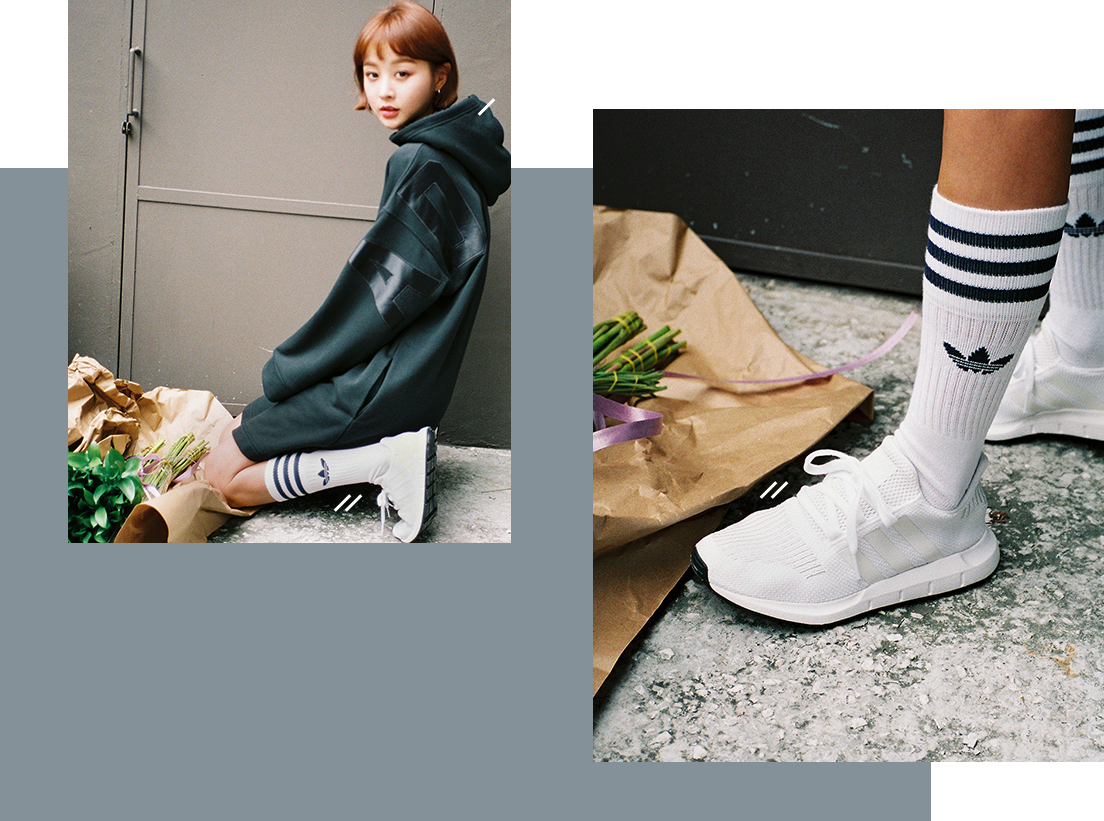
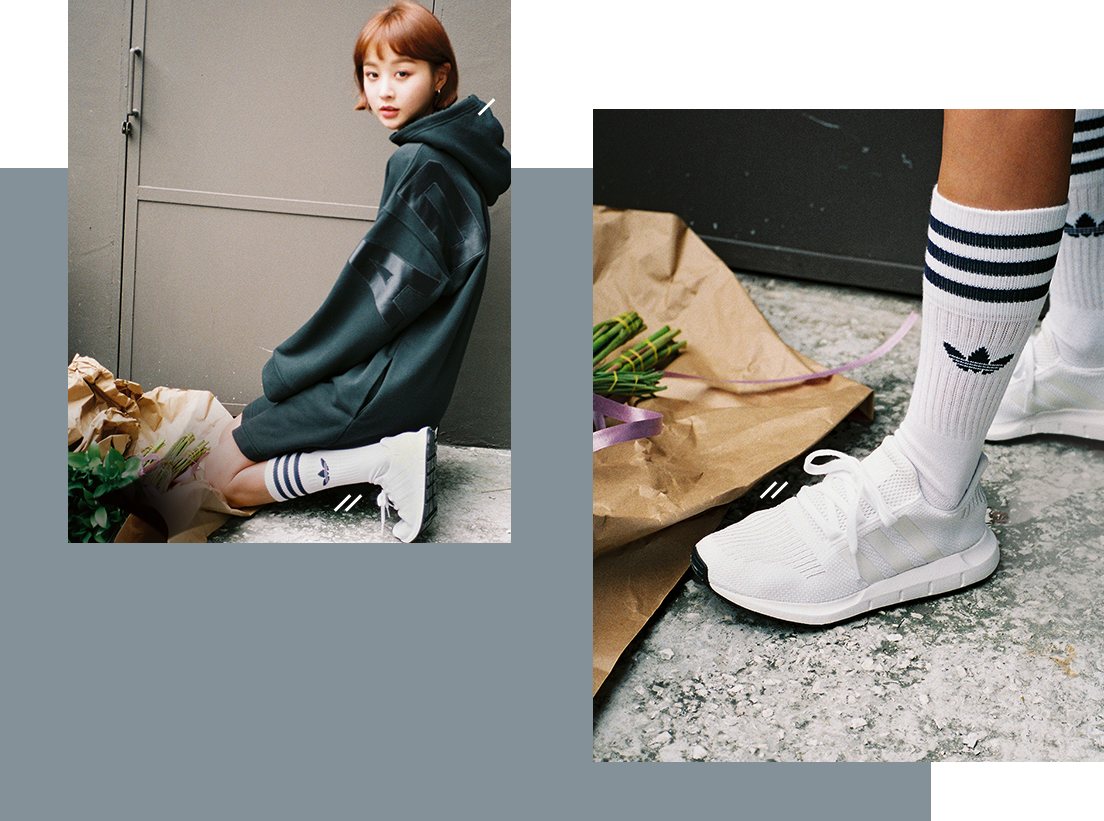
아디다스 임블리 수정

Changed region(s): [[0.0616, 0.4872, 0.2464, 0.6699], [0.8931, 0.5177, 1.0, 0.7613]]

diff --git a/app/html/adidas/event/originals_imvely/170918/build/index.html b/app/html/adidas/event/originals_imvely/170918/build/index.html
@@ -1056,7 +1056,7 @@
 
 
 		<div id="container_r">
-<style type="text/css">.pseudo-element{content:'';display:block}#wrap{overflow:hidden;min-width:1280px}#originals_imvely{overflow:hidden;min-width:1280px}#originals_imvely .main{position:relative;height:966px}#originals_imvely .main .bg{position:absolute;top:0;left:50%;margin-left:-960px}#originals_imvely .prd-slider-wrapper .link_wrap{position:absolute;bottom:130px;right:705px;opacity:0;filter:alpha(opacity=0);-ms-filter:alpha(opacity=0);transition:all 0.5s;-webkit-transition:all 0.5s;-moz-transition:all 0.5s;-o-transition:all 0.5s;-ms-transition:all 0.5s;transition-delay:1s;-webkit-transition-delay:1s;z-index:1}#originals_imvely .prd-slider-wrapper .link_wrap .link{float:left;margin-left:100px}#originals_imvely .prd-slider-wrapper .link_wrap .link p{padding:0 0 10px 0;color:#fff;font:16px/16px 'adihaus' !important}#originals_imvely .prd-slider-wrapper .link_wrap .link p.title{position:relative;font:24px/24px 'adihaus-medium' !important}#originals_imvely .prd-slider-wrapper .link_wrap .link p.title span{position:absolute;left:-27px;top:6px;display:inline-block;padding:0 8px 0 0;width:19px;height:18px;background:url("http://image.adidas.co.kr/images/adidas/event/originals_imvely/170918/bulit.png") no-repeat}#originals_imvely .prd-slider-wrapper .link_wrap .link p.title span.type2{left:-37px;width:30px;background:url("http://image.adidas.co.kr/images/adidas/event/originals_imvely/170918/bulits.png") no-repeat}#originals_imvely .prd-slider-wrapper .link_wrap .link p.title span.black{background:url("http://image.adidas.co.kr/images/adidas/event/originals_imvely/170918/bulit_black.png") no-repeat}#originals_imvely .prd-slider-wrapper .link_wrap .link .kor{position:relative;color:#fff;font:500 15px 'NotoSansKR'}#originals_imvely .prd-slider-wrapper .link_wrap .link .kor span{position:absolute;top:4px;right:-21px;width:14px;height:14px;background:url("/images/adidas/common/icon_btn_black_14x14.png")}#originals_imvely .prd-slider-wrapper .link_wrap .link .kor span.white{background:url("/images/adidas/common/icon_btn_white_14x14.png")}#originals_imvely .prd-slider-wrapper .item-wrapper{background:url("http://image.adidas.co.kr/images/adidas/event/originals_imvely/170918/bgimg1.jpg") no-repeat;background-position:50% 50%}#originals_imvely .prd-slider-wrapper .item-wrapper#sliderwrap1 .section_main .link_wrap{width:100%;top:0;left:0}#originals_imvely .prd-slider-wrapper .item-wrapper#sliderwrap1 .section_main .link_wrap .link{position:absolute}#originals_imvely .prd-slider-wrapper .item-wrapper#sliderwrap1 .section_main .link_wrap .link.item2{top:372px;left:344px}#originals_imvely .prd-slider-wrapper .item-wrapper#sliderwrap1 .section_main .link_wrap .link.item1{top:600px;right:356px}#originals_imvely .prd-slider-wrapper .item-wrapper#sliderwrap1 li.item5 .link_wrap{bottom:110px}#originals_imvely .prd-slider-wrapper .item-wrapper#sliderwrap2{background:url("http://image.adidas.co.kr/images/adidas/event/originals_imvely/170918/bgimg2.jpg") no-repeat}#originals_imvely .prd-slider-wrapper .item-wrapper#sliderwrap2 .link_wrap{right:780px}#originals_imvely .prd-slider-wrapper .item-wrapper#sliderwrap2 .section_main .link_wrap{width:100%;top:0;left:0}#originals_imvely .prd-slider-wrapper .item-wrapper#sliderwrap2 .section_main .link_wrap .link{position:absolute}#originals_imvely .prd-slider-wrapper .item-wrapper#sliderwrap2 .section_main .link_wrap .link.item2{top:562px;left:33px}#originals_imvely .prd-slider-wrapper .item-wrapper#sliderwrap2 .section_main .link_wrap .link.item1{top:271px;right:219px}#originals_imvely .prd-slider-wrapper .item-wrapper#sliderwrap2 li.item2 .link_wrap{bottom:100px}#originals_imvely .prd-slider-wrapper .item-wrapper#sliderwrap2 li.item3 .link_wrap{bottom:85px;right:650px}#originals_imvely .prd-slider-wrapper .item-wrapper#sliderwrap2 li.item4 .link_wrap{bottom:80px;right:780px}#originals_imvely .prd-slider-wrapper .item-wrapper#sliderwrap3{background:url("http://image.adidas.co.kr/images/adidas/event/originals_imvely/170918/bgimg3.jpg") no-repeat}#originals_imvely .prd-slider-wrapper .item-wrapper#sliderwrap3 .section_main .link_wrap{width:100%;top:0;left:0}#originals_imvely .prd-slider-wrapper .item-wrapper#sliderwrap3 .section_main .link_wrap .link{position:absolute}#originals_imvely .prd-slider-wrapper .item-wrapper#sliderwrap3 .section_main .link_wrap .link.item1{top:102px;right:115px}#originals_imvely .prd-slider-wrapper .item-wrapper#sliderwrap3 .section_main .link_wrap .link.item2{top:602px;left:-7px}#originals_imvely .prd-slider-wrapper .item-wrapper#sliderwrap3 li .link_wrap .link{float:none;padding-bottom:50px}#originals_imvely .prd-slider-wrapper .item-wrapper#sliderwrap3 li.item1 .link_wrap{bottom:88px;right:781px}#originals_imvely .prd-slider-wrapper .item-wrapper#sliderwrap3 li.item2 .link_wrap{bottom:130px;right:787px}#originals_imvely .prd-slider-wrapper .item-wrapper#sliderwrap3 li.item3 .link_wrap{bottom:130px;right:687px}#originals_imvely .prd-slider-wrapper .item-wrapper#sliderwrap3 li.item4 .link_wrap{bottom:120px;right:657px}#originals_imvely .prd-slider-wrapper .item-wrapper#sliderwrap3 li.item4 .link_wrap .link{float:right;margin-left:80px}#originals_imvely .prd-slider-wrapper .item-wrapper .section_main{padding:60px 0 70px}#originals_imvely .prd-slider-wrapper .item-wrapper .section_main>*{text-align:center;color:#fff}#originals_imvely .prd-slider-wrapper .item-wrapper .section_main h2{padding-bottom:20px;font:56px/56px 'adihaus-bold';letter-spacing:22px;text-transform:uppercase}#originals_imvely .prd-slider-wrapper .item-wrapper .section_main p{padding-bottom:60px;font:400 18px/18px 'NotoSansKR'}#originals_imvely .prd-slider-wrapper .item-wrapper .section_main .img{position:relative}#originals_imvely .prd-slider-wrapper .item-wrapper .section_main .img .link_wrap{opacity:1;filter:alpha(opacity=100);-ms-filter:alpha(opacity=100)}#originals_imvely .prd-slider-wrapper .item-wrapper .section_main .img .link_wrap .link>*{color:#000}#originals_imvely .prd-slider-wrapper .item-wrapper .section_main .img .link_wrap .link p{padding:0 0 10px 0}#originals_imvely .prd-slider-wrapper .item-wrapper .slider ul li{position:relative;opacity:0;filter:alpha(opacity=0);-ms-filter:alpha(opacity=0);transition:all 0.5s;-webkit-transition:all 0.5s;-moz-transition:all 0.5s;-o-transition:all 0.5s;-ms-transition:all 0.5s}#originals_imvely .prd-slider-wrapper .item-wrapper .slider ul li.on{opacity:1;filter:alpha(opacity=100);-ms-filter:alpha(opacity=100)}#originals_imvely .prd-slider-wrapper .item-wrapper .slider ul li.on .item .link_wrap{opacity:1;filter:alpha(opacity=100);-ms-filter:alpha(opacity=100)}#originals_imvely .prd-slider-wrapper .item-wrapper .indicator{text-align:center}#originals_imvely .prd-slider-wrapper .item-wrapper .indicator a{padding:0 5px;display:inline-block;width:19px;height:18px;background:url("http://image.adidas.co.kr/images/adidas/event/originals_imvely/170918/bulit.png") no-repeat;text-indent:-9999px;opacity:.3;filter:alpha(opacity=30);-ms-filter:alpha(opacity=30)}#originals_imvely .prd-slider-wrapper .item-wrapper .indicator a.on{opacity:1;filter:alpha(opacity=100);-ms-filter:alpha(opacity=100)}#originals_imvely .prd-slider-wrapper .item-wrapper .indicator a:hover{opacity:1;filter:alpha(opacity=100);-ms-filter:alpha(opacity=100)}#originals_imvely .prd-slider-wrapper .item-wrapper .arrow_wrap{padding:61px 0 0 0;width:950px;position:relative;margin:0 auto}#originals_imvely .prd-slider-wrapper .item-wrapper .arrow_wrap .arow{position:absolute;width:108px;height:12px;display:inline-block;text-indent:-9999px;opacity:.2;filter:alpha(opacity=20);-ms-filter:alpha(opacity=20)}#originals_imvely .prd-slider-wrapper .item-wrapper .arrow_wrap .arow.next-button{right:0;background:url("http://image.adidas.co.kr/images/adidas/event/originals_imvely/170918/arrow_next.png") no-repeat}#originals_imvely .prd-slider-wrapper .item-wrapper .arrow_wrap .arow.prev-button{left:0;background:url("http://image.adidas.co.kr/images/adidas/event/originals_imvely/170918/arrow_next.png") no-repeat;transform:rotate(-180deg)}#originals_imvely .prd-slider-wrapper .item-wrapper .arrow_wrap .arow:hover{opacity:.9;filter:alpha(opacity=90);-ms-filter:alpha(opacity=90)}#originals_imvely .bottom{padding:50px 0;text-align:center}
+<style type="text/css">.pseudo-element{content:'';display:block}#wrap{overflow:hidden;min-width:1280px}#originals_imvely{overflow:hidden;min-width:1280px}#originals_imvely .main{position:relative;height:966px}#originals_imvely .main .bg{position:absolute;top:0;left:50%;margin-left:-960px}#originals_imvely .prd-slider-wrapper .link_wrap{position:absolute;bottom:130px;right:705px;opacity:0;filter:alpha(opacity=0);-ms-filter:alpha(opacity=0);transition:all 0.5s;-webkit-transition:all 0.5s;-moz-transition:all 0.5s;-o-transition:all 0.5s;-ms-transition:all 0.5s;transition-delay:1s;-webkit-transition-delay:1s;z-index:1}#originals_imvely .prd-slider-wrapper .link_wrap .link{float:left;margin-left:100px}#originals_imvely .prd-slider-wrapper .link_wrap .link p{padding:0 0 10px 0;color:#fff;font:16px/16px 'adihaus' !important}#originals_imvely .prd-slider-wrapper .link_wrap .link p.title{position:relative;font:24px/24px 'adihaus-medium' !important}#originals_imvely .prd-slider-wrapper .link_wrap .link p.title span{position:absolute;left:-27px;top:6px;display:inline-block;padding:0 8px 0 0;width:19px;height:18px;background:url("http://image.adidas.co.kr/images/adidas/event/originals_imvely/170918/bulit.png") no-repeat}#originals_imvely .prd-slider-wrapper .link_wrap .link p.title span.type2{left:-37px;width:30px;background:url("http://image.adidas.co.kr/images/adidas/event/originals_imvely/170918/bulits.png") no-repeat}#originals_imvely .prd-slider-wrapper .link_wrap .link p.title span.black{background:url("http://image.adidas.co.kr/images/adidas/event/originals_imvely/170918/bulit_black.png") no-repeat}#originals_imvely .prd-slider-wrapper .link_wrap .link .kor{position:relative;color:#fff;font:500 15px 'NotoSansKR'}#originals_imvely .prd-slider-wrapper .link_wrap .link .kor span{position:absolute;top:4px;right:-21px;width:14px;height:14px;background:url("/images/adidas/common/icon_btn_black_14x14.png")}#originals_imvely .prd-slider-wrapper .link_wrap .link .kor span.white{background:url("/images/adidas/common/icon_btn_white_14x14.png")}#originals_imvely .prd-slider-wrapper .item-wrapper{background:url("http://image.adidas.co.kr/images/adidas/event/originals_imvely/170918/bgimg1.jpg") no-repeat;background-position:50% 50%}#originals_imvely .prd-slider-wrapper .item-wrapper#sliderwrap1 .section_main .link_wrap{width:100%;top:0;left:0}#originals_imvely .prd-slider-wrapper .item-wrapper#sliderwrap1 .section_main .link_wrap .link{position:absolute}#originals_imvely .prd-slider-wrapper .item-wrapper#sliderwrap1 .section_main .link_wrap .link.item2{top:372px;left:344px}#originals_imvely .prd-slider-wrapper .item-wrapper#sliderwrap1 .section_main .link_wrap .link.item1{top:600px;right:356px}#originals_imvely .prd-slider-wrapper .item-wrapper#sliderwrap1 li.item5 .link_wrap{bottom:110px}#originals_imvely .prd-slider-wrapper .item-wrapper#sliderwrap2{background:url("http://image.adidas.co.kr/images/adidas/event/originals_imvely/170918/bgimg2.jpg") no-repeat}#originals_imvely .prd-slider-wrapper .item-wrapper#sliderwrap2 .link_wrap{right:780px}#originals_imvely .prd-slider-wrapper .item-wrapper#sliderwrap2 .section_main .link_wrap{width:100%;top:0;left:0}#originals_imvely .prd-slider-wrapper .item-wrapper#sliderwrap2 .section_main .link_wrap .link{position:absolute}#originals_imvely .prd-slider-wrapper .item-wrapper#sliderwrap2 .section_main .link_wrap .link.item2{top:562px;left:33px}#originals_imvely .prd-slider-wrapper .item-wrapper#sliderwrap2 .section_main .link_wrap .link.item1{top:271px;right:219px}#originals_imvely .prd-slider-wrapper .item-wrapper#sliderwrap2 li.item2 .link_wrap{bottom:100px}#originals_imvely .prd-slider-wrapper .item-wrapper#sliderwrap2 li.item3 .link_wrap{bottom:85px;right:650px}#originals_imvely .prd-slider-wrapper .item-wrapper#sliderwrap2 li.item4 .link_wrap{bottom:80px;right:780px}#originals_imvely .prd-slider-wrapper .item-wrapper#sliderwrap2 .arrow_wrap{top:-442px}#originals_imvely .prd-slider-wrapper .item-wrapper#sliderwrap2 .arrow_wrap .arrow.next-button{right:-64px}#originals_imvely .prd-slider-wrapper .item-wrapper#sliderwrap2 .arrow_wrap .arrow.prev-button{left:3px}#originals_imvely .prd-slider-wrapper .item-wrapper#sliderwrap3{background:url("http://image.adidas.co.kr/images/adidas/event/originals_imvely/170918/bgimg3.jpg") no-repeat}#originals_imvely .prd-slider-wrapper .item-wrapper#sliderwrap3 .section_main .link_wrap{width:100%;top:0;left:0}#originals_imvely .prd-slider-wrapper .item-wrapper#sliderwrap3 .section_main .link_wrap .link{position:absolute}#originals_imvely .prd-slider-wrapper .item-wrapper#sliderwrap3 .section_main .link_wrap .link.item1{top:102px;right:115px}#originals_imvely .prd-slider-wrapper .item-wrapper#sliderwrap3 .section_main .link_wrap .link.item2{top:602px;left:-7px}#originals_imvely .prd-slider-wrapper .item-wrapper#sliderwrap3 li .link_wrap .link{float:none;padding-bottom:50px}#originals_imvely .prd-slider-wrapper .item-wrapper#sliderwrap3 li.item1 .link_wrap{bottom:88px;right:781px}#originals_imvely .prd-slider-wrapper .item-wrapper#sliderwrap3 li.item2 .link_wrap{bottom:130px;right:787px}#originals_imvely .prd-slider-wrapper .item-wrapper#sliderwrap3 li.item3 .link_wrap{bottom:130px;right:687px}#originals_imvely .prd-slider-wrapper .item-wrapper#sliderwrap3 li.item4 .link_wrap{bottom:120px;right:657px}#originals_imvely .prd-slider-wrapper .item-wrapper#sliderwrap3 li.item4 .link_wrap .link{float:right;margin-left:80px}#originals_imvely .prd-slider-wrapper .item-wrapper#sliderwrap3 .arrow_wrap{top:-454px}#originals_imvely .prd-slider-wrapper .item-wrapper#sliderwrap3 .arrow_wrap .arrow.next-button{right:-45px}#originals_imvely .prd-slider-wrapper .item-wrapper#sliderwrap3 .arrow_wrap .arrow.prev-button{left:-17px}#originals_imvely .prd-slider-wrapper .item-wrapper .section_main{padding:60px 0 70px}#originals_imvely .prd-slider-wrapper .item-wrapper .section_main>*{text-align:center;color:#fff}#originals_imvely .prd-slider-wrapper .item-wrapper .section_main h2{padding-bottom:20px;font:56px/56px 'adihaus-bold';letter-spacing:22px;text-transform:uppercase}#originals_imvely .prd-slider-wrapper .item-wrapper .section_main p{padding-bottom:60px;font:400 18px/18px 'NotoSansKR'}#originals_imvely .prd-slider-wrapper .item-wrapper .section_main .img{position:relative}#originals_imvely .prd-slider-wrapper .item-wrapper .section_main .img .link_wrap{opacity:1;filter:alpha(opacity=100);-ms-filter:alpha(opacity=100)}#originals_imvely .prd-slider-wrapper .item-wrapper .section_main .img .link_wrap .link>*{color:#000}#originals_imvely .prd-slider-wrapper .item-wrapper .section_main .img .link_wrap .link p{padding:0 0 10px 0}#originals_imvely .prd-slider-wrapper .item-wrapper .slider ul li{position:relative;opacity:0;filter:alpha(opacity=0);-ms-filter:alpha(opacity=0);transition:all 0.5s;-webkit-transition:all 0.5s;-moz-transition:all 0.5s;-o-transition:all 0.5s;-ms-transition:all 0.5s}#originals_imvely .prd-slider-wrapper .item-wrapper .slider ul li.on{opacity:1;filter:alpha(opacity=100);-ms-filter:alpha(opacity=100)}#originals_imvely .prd-slider-wrapper .item-wrapper .slider ul li.on .item .link_wrap{opacity:1;filter:alpha(opacity=100);-ms-filter:alpha(opacity=100)}#originals_imvely .prd-slider-wrapper .item-wrapper .indicator{text-align:center}#originals_imvely .prd-slider-wrapper .item-wrapper .indicator a{padding:0 5px;display:inline-block;width:19px;height:18px;background:url("http://image.adidas.co.kr/images/adidas/event/originals_imvely/170918/bulit.png") no-repeat;text-indent:-9999px;opacity:.3;filter:alpha(opacity=30);-ms-filter:alpha(opacity=30)}#originals_imvely .prd-slider-wrapper .item-wrapper .indicator a.on{opacity:1;filter:alpha(opacity=100);-ms-filter:alpha(opacity=100)}#originals_imvely .prd-slider-wrapper .item-wrapper .indicator a:hover{opacity:1;filter:alpha(opacity=100);-ms-filter:alpha(opacity=100)}#originals_imvely .prd-slider-wrapper .item-wrapper .arrow_wrap{padding:61px 0 0 0;width:950px;position:relative;margin:0 auto;top:-386px}#originals_imvely .prd-slider-wrapper .item-wrapper .arrow_wrap .arow{position:absolute;width:109px;height:32px;display:inline-block;text-indent:-9999px}#originals_imvely .prd-slider-wrapper .item-wrapper .arrow_wrap .arow.next-button{right:-22px;background:url("/images/adidas/event/originals_imvely/170918/arrow.png") no-repeat;background-position:0 0}#originals_imvely .prd-slider-wrapper .item-wrapper .arrow_wrap .arow.prev-button{left:-22px;background:url("/images/adidas/event/originals_imvely/170918/arrow.png") no-repeat;background-position:0 0;transform:rotate(-180deg)}#originals_imvely .prd-slider-wrapper .item-wrapper .arrow_wrap .arow:hover{background-position:100% 0}#originals_imvely .bottom{padding:50px 0;text-align:center}
 </style>
 
 			<div id="originals_imvely">
@@ -1204,7 +1204,7 @@
 										<div class="link item1">
 											<p class="title"><span class="black"></span>hoodie</p>
 											<p>BR5188 </p>
-											<a href="http://shop.adidas.co.kr/PF020401.action?PROD_CD=BR5188" class="kor readyprd">구매하기<span></span></a>
+											<a href="javascript:void(0)" class="kor">Sold out</a>
 										</div>
 										<div class="link item2">
 											<p class="title"><span class="black"></span>campus w</p>
@@ -1470,7 +1470,7 @@
 					// slider1
 
 					var sliders2 = $('#sliders2').Swipers({
-						width : 1190,
+						width : 1280,
 						height : 830,
 						duration : 800,
 						// auto  :true,

diff --git a/app/html/adidas/event/originals_imvely/170918/index.scss b/app/html/adidas/event/originals_imvely/170918/index.scss
@@ -144,6 +144,17 @@
 						}
 					}
 				}
+				.arrow_wrap{
+					top: -442px;
+					.arrow{
+						&.next-button{
+							right: -64px;
+						}
+						&.prev-button{
+							left: 3px;
+						}
+					}
+				}
 			}
 			&#sliderwrap3{
 				background: url('http://image.adidas.co.kr/images/adidas/event/originals_imvely/170918/bgimg3.jpg') no-repeat;
@@ -193,6 +204,17 @@
 							    margin-left: 80px;
 
 							}
+						}
+					}
+				}
+				.arrow_wrap{
+				    top: -454px;
+					.arrow{
+						&.next-button{
+						    right: -45px;
+						}
+						&.prev-button{
+						    left: -17px;
 						}
 					}
 				}
@@ -275,25 +297,29 @@
 				width: 950px;
 			    position: relative;
 			    margin: 0 auto;
+			    top: -386px;
 				.arow{
 					position: absolute;
-					width: 108px;
-					height: 12px;
+					width: 109px;
+					height: 32px;
 					display: inline-block;
 					text-indent: -9999px;
-					@include opacity(0.2);
+					// @include opacity(0.2);
 
 					&.next-button{
-						right: 0;
-						background: url('http://image.adidas.co.kr/images/adidas/event/originals_imvely/170918/arrow_next.png') no-repeat;
+						right: -22px;
+						background: url('/images/adidas/event/originals_imvely/170918/arrow.png') no-repeat;
+						background-position: 0 0;
 					}
 					&.prev-button{
-						left:0;
-						background: url('http://image.adidas.co.kr/images/adidas/event/originals_imvely/170918/arrow_next.png') no-repeat;
+						left:-22px;
+						background: url('/images/adidas/event/originals_imvely/170918/arrow.png') no-repeat;
+						background-position: 0 0;
 						transform: rotate(-180deg);
 					}
 					&:hover{
-						@include opacity(0.9);
+						background-position: 100% 0;
+
 
 					}
 				}

diff --git a/app/html/adidas/event/originals_imvely/170918/index.html b/app/html/adidas/event/originals_imvely/170918/index.html
@@ -1202,7 +1202,7 @@
 										<div class="link item1">
 											<p class="title"><span class="black"></span>hoodie</p>
 											<p>BR5188 </p>
-											<a href="http://shop.adidas.co.kr/PF020401.action?PROD_CD=BR5188" class="kor readyprd">구매하기<span></span></a>
+											<a href="javascript:void(0)" class="kor">Sold out</a>
 										</div>
 										<div class="link item2">
 											<p class="title"><span class="black"></span>campus w</p>
@@ -1468,7 +1468,7 @@
 					// slider1
 
 					var sliders2 = $('#sliders2').Swipers({
-						width : 1190,
+						width : 1280,
 						height : 830,
 						duration : 800,
 						// auto  :true,
